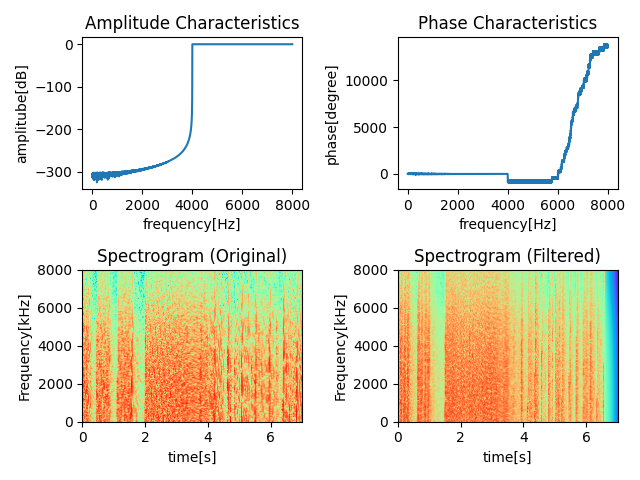
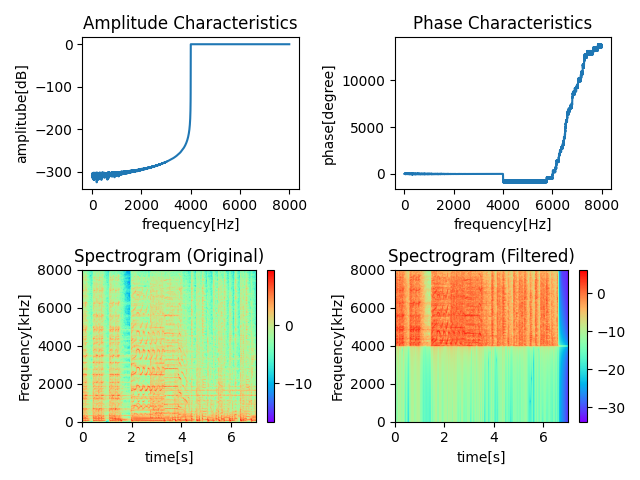
ver1.1

diff --git a/ex02/k_okamori/ex02_okamori.py b/ex02/k_okamori/ex02_okamori.py
@@ -1,81 +1,81 @@
 import sys
 import numpy as np
-import soundfile as sf # 音声データの読み取り
-import matplotlib.pyplot as plt # 出力データのプロット
+import soundfile as sf  # 音声データの読み取り
+import matplotlib.pyplot as plt  # 出力データのプロット
 
 # 定数の定義
 
-NFFT = 1024 # frame の大きさ
-OVERLAP = int(NFFT / 2) # half shift を採用
-WINDOW = np.hamming(NFFT) # STFTの窓関数はハミング窓を使用
+NFFT = 1024  # frame の大きさ
+OVERLAP = int(NFFT / 2)  # half shift を採用
+WINDOW = np.hamming(NFFT)  # STFTの窓関数はハミング窓を使用
 
 # 畳み込み
 #   f1, f2: 畳み込む二つの関数
-def convolution(f1, f2):
-    result = np.zeros(f1.size + f2.size) # 計算結果を格納する配列
-    for i in range(f1.size):
-        result[i : i + f2.size] += f1[i] * f2 # 畳み込み計算
-    return result[ f2.size : ]
 
-# 音声データのロード
-#   fname: 読み込む音声ファイルの名前
-def wav_load(fname):
-    wave, samplerate = sf.read(fname)
-    return wave, samplerate
+
+def convolution(f1, f2):
+    result = np.zeros(f1.size + f2.size)  # 計算結果を格納する配列
+    for i in range(f1.size):
+        result[i: i + f2.size] += f1[i] * f2  # 畳み込み計算
+    return result[f2.size:]
 
 # 時間信号グラフの描画
 #   ax: 描画するグラフの領域
 #   title: グラフのタイトル
 #   time: x座標のデータ
 #   wave: y座標のデータ
+
+
 def draw_signal(ax, title, time, wave):
     ax.plot(time, wave)
-    plt.title(title) # タイトルの追加
-    plt.ylabel("Magnitude") # y軸ラベルの追加
+    plt.title(title)  # タイトルの追加
+    plt.ylabel("Magnitude")  # y軸ラベルの追加
 
 # フィルタの周波数特性のグラフの描画
 #   ax: 描画するグラフの領域(振幅特性)
 #   ax: 描画するグラフの領域(位相特性)
 #   filter: フィルタのデータ
+
+
 def draw_filter(ax_amp, ax_phase, filter):
-    filter_w = np.fft.rfft(filter) # フィルタのフーリエ変換
-    filter_amp = 20 * np.log10(np.abs(filter_w)) # 振幅の計算
-    filter_phase = np.degrees(np.unwrap(np.angle(filter_w))) # 位相の計算
+    filter_w = np.fft.rfft(filter)  # フィルタのフーリエ変換
+    filter_amp = 20 * np.log10(np.abs(filter_w))  # 振幅の計算
+    filter_phase = np.degrees(np.unwrap(np.angle(filter_w)))  # 位相の計算
     ax_amp.plot(filter_amp)     # 振幅特性の描画
-    ax_phase.plot(filter_phase) # 位相特性の描画
-    ax_amp.set_title("Amplitude Characteristics") # タイトルの追加(振幅特性)
+    ax_phase.plot(filter_phase)  # 位相特性の描画
+    ax_amp.set_title("Amplitude Characteristics")  # タイトルの追加(振幅特性)
     ax_phase.set_title("Phase Characteristics")   # タイトルの追加(位相特性)
     ax_amp.set_xlabel("frequency[Hz]")   # x軸ラベルの追加(振幅特性)
-    ax_phase.set_xlabel("frequency[Hz]") # x軸ラベルの追加(位相特性)
+    ax_phase.set_xlabel("frequency[Hz]")  # x軸ラベルの追加(位相特性)
     ax_amp.set_ylabel("amplitube[dB]")   # y軸ラベルの追加(振幅特性)
-    ax_phase.set_ylabel("phase[degree]") # y軸ラベルの追加(位相特性)
-
+    ax_phase.set_ylabel("phase[degree]")  # y軸ラベルの追加(位相特性)
 
 
 # スペクトログラムグラフの描画
 #   spec: スペクトログラムのデータ
 #   wave_length: 音源の長さ
 #   samplerate: サンプルレート
-def draw_spectrogram(ax, title, spec, wave_length, samplerate):
-    spec = np.log(np.square(np.abs(spec))) 
-    ax.imshow(spec.T, extent = [0, wave_length, 0, samplerate / 2],
-    cmap = "rainbow", aspect = "auto") # スペクトログラムの描画
+def draw_spectrogram(fig, ax, title, spec, wave_length, samplerate):
+    spec = np.log(np.square(np.abs(spec)))
+    im = ax.imshow(spec.T, extent=[0, wave_length, 0, samplerate / 2],
+                   cmap="rainbow", aspect="auto", origin="lower")  # スペクトログラムの描画
+    fig.colorbar(im, ax=ax)
     ax.set_title(title)             # タイトルの追加
     ax.set_xlabel("time[s]")        # x軸ラベルの追加
-    ax.set_ylabel("Frequency[kHz]") # y軸ラベルの追加
-    
+    ax.set_ylabel("Frequency[kHz]")  # y軸ラベルの追加
+
 
 # 短時間フーリエ変換(STFT)
 def stft(wave):
     spec = np.zeros([len(wave) // OVERLAP - 1, int(NFFT / 2) + 1],
-    dtype = np.complex) # spec:出力データ
+                    dtype=np.complex)  # spec:出力データ
     for idx in range(0, len(wave), OVERLAP):
-        frame = wave[idx : idx + NFFT] # frame の切り出し
-        if len(frame) == NFFT: # frame が全部切り出せるときのみ変換
-            windowed = WINDOW * frame # 窓関数をかける
-            result = np.fft.fft(windowed) #フーリエ変換
+        frame = wave[idx: idx + NFFT]  # frame の切り出し
+        if len(frame) == NFFT:  # frame が全部切り出せるときのみ変換
+            windowed = WINDOW * frame  # 窓関数をかける
+            result = np.fft.fft(windowed)  # フーリエ変換
             for i in range(spec.shape[1]):
-                spec[int(idx / OVERLAP)][i] = windowed[i] # 計算結果を出力データに追加
+                spec[int(idx / OVERLAP)][i] = result[i]  # 計算結果を出力データに追加
     return spec
 
 # フィルタの作成
@@ -85,59 +85,61 @@ def stft(wave):
 #   (f1, f2) = (a, samplerate / 2): HPF
 #   (f1, f2) = (a, b)             : BPF
 #   f2 < f1 の場合は f2 から f1 までの周波数を遮断する BEF となる
+
+
 def create_filter(f1, f2, samplerate):
     fd = np.zeros(samplerate)
-    wn1 = 2 * np.pi *f1 / samplerate
-    if f1 > f2:
-        fd[ : f2] = 1
-        fd[f1 : samplerate - f1] = 1
-        fd[samplerate - f2 : ] = 1
+    if f1 > f2:  # 以下，矩形波の作成
+        fd[: f2] = 1
+        fd[f1: samplerate - f1] = 1
+        fd[samplerate - f2:] = 1
     else:
-        fd[f1 : f2] = 1
-        fd[samplerate - f2 : samplerate - f1] = 1
-    filter = (np.fft.ifft(fd)).real
+        fd[f1: f2] = 1
+        fd[samplerate - f2: samplerate - f1] = 1
+    filter = (np.fft.ifft(fd)).real  # 逆フーリエ変換
     filter = filter.reshape(2, samplerate // 2)
     filter = filter[[1, 0], :]
     filter = filter.reshape(-1)
-    filter = filter * np.hamming(samplerate)
-    result = np.fft.rfft(filter)
-    #plt.plot(filter)
-    #plt.savefig("test.png")
+    filter = filter * np.hamming(samplerate)  # 窓関数をかける
+
     return filter
 
 # main
 #   agrv[1], argv[2]: フィルタ作成における f1, f2
 #   詳細は create_filter を参照
+
+
 def main():
     f1 = int(sys.argv[1])
     f2 = int(sys.argv[2])
 
-    fig = plt.figure() # 以下，グラフ領域の確保
+    fig = plt.figure()  # 以下，グラフ領域の確保
     ax1 = fig.add_subplot(2, 2, 1)
     ax2 = fig.add_subplot(2, 2, 2)
     ax3 = fig.add_subplot(2, 2, 3)
     ax4 = fig.add_subplot(2, 2, 4)
 
-    wave, samplerate = wav_load("sound.wav") # 音声データのロード
-    wave_size = len(wave) # wave_size: wave の要素数
-    wave_length = wave_size / samplerate # wave_length: wave の長さ
+    wave, samplerate = sf.read("sound.wav")  # 音声データのロード
+    wave_size = len(wave)  # wave_size: wave の要素数
+    wave_length = wave_size / samplerate  # wave_length: wave の長さ
 
-    filter = create_filter(f1, f2, samplerate) # フィルタ作成
-    draw_filter(ax1, ax2, filter) # フィルタの周波数特性の描画
+    filter = create_filter(f1, f2, samplerate)  # フィルタ作成
+    draw_filter(ax1, ax2, filter)  # フィルタの周波数特性の描画
 
-    spec_orignal = stft(wave) # 短時間フーリエ変換(元データ)
-    wave_filtered = convolution(wave, filter) # 畳み込み
-    spec_filtered = stft(wave_filtered) # 短時間フーリエ変換(フィルタ後)
+    spec_orignal = stft(wave)  # 短時間フーリエ変換(元データ)
+    wave_filtered = convolution(wave, filter)  # 畳み込み
+    spec_filtered = stft(wave_filtered)  # 短時間フーリエ変換(フィルタ後)
 
-    draw_spectrogram(ax3, "Spectrogram (Original)", spec_orignal,
-    wave_length, samplerate) # スペクトログラムの描画(元データ)
-    draw_spectrogram(ax4, "Spectrogram (Filtered)", spec_filtered,
-    wave_length, samplerate) # スペクトログラムの描画(フィルタ後)
+    draw_spectrogram(fig, ax3, "Spectrogram (Original)", spec_orignal,
+                     wave_length, samplerate)  # スペクトログラムの描画(元データ)
+    draw_spectrogram(fig, ax4, "Spectrogram (Filtered)", spec_filtered,
+                     wave_length, samplerate)  # スペクトログラムの描画(フィルタ後)
 
-    fig.tight_layout() # レイアウト調整
-    plt.savefig('ex02_spec.png') # 保存
+    fig.tight_layout()  # レイアウト調整
+    plt.savefig('ex02_spec.png')  # 保存
 
     sf.write("out.wav", wave_filtered, samplerate,
-    format = "WAV", subtype = 'PCM_16') # 変換後音声データの書き出し
+             format="WAV", subtype='PCM_16')  # 変換後音声データの書き出し
+
 
 main()
